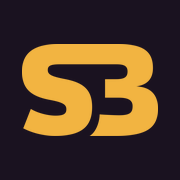
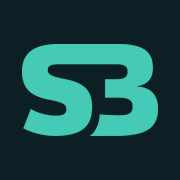
Switch colour scheme to dark teal with turquoise and apricot
Replace the aubergine, saffron and lilac palette, regenerate the
favicon, touch icon and social preview image to match, and give
the CSS colour tokens neutral names (--bg, --accent, ...).

Claude-Session: https://claude.ai/code/session_018yRe25Biixi9q7KoxBVGx6

Changed region(s): [[0.1111, 0.2222, 0.8889, 0.7778]]

diff --git a/src/styles/site.css b/src/styles/site.css
@@ -7,13 +7,13 @@
   src:url(/assets/archivo.woff2) format("woff2");
 }
 :root{
-  --aubergine:#1a1220;
-  --plum:#271b2f;
-  --line:#3d2e46;
-  --cream:#f2ece2;
-  --mauve:#b5a8bc;
-  --saffron:#f2b441;
-  --lilac:#a78bdc;
+  --bg:#0c1f24;
+  --surface:#12303a;
+  --line:#24464f;
+  --text:#f1eee4;
+  --muted:#a3b8b8;
+  --accent:#45cbb5;
+  --accent-2:#f2a66a;
   --gutter:clamp(20px,5vw,64px);
   --measure:34rem;
   --mark:url(/assets/sb-mark.png);
@@ -22,16 +22,16 @@
 html{scroll-behavior:smooth;-webkit-text-size-adjust:100%}
 body{
   margin:0;
-  background:var(--aubergine);
-  color:var(--cream);
+  background:var(--bg);
+  color:var(--text);
   font-family:"Archivo",system-ui,-apple-system,"Segoe UI",sans-serif;
   font-size:1.0625rem;
   line-height:1.6;
   -webkit-font-smoothing:antialiased;
 }
 a{color:inherit}
-:focus-visible{outline:2px solid var(--saffron);outline-offset:4px;border-radius:4px}
-::selection{background:var(--saffron);color:var(--aubergine)}
+:focus-visible{outline:2px solid var(--accent);outline-offset:4px;border-radius:4px}
+::selection{background:var(--accent);color:var(--bg)}
 .wrap{max-width:1240px;margin:0 auto;padding-inline:var(--gutter)}
 svg{display:block}
 
@@ -39,14 +39,14 @@ svg{display:block}
 .top{position:relative;z-index:2;display:flex;align-items:center;justify-content:space-between;gap:24px;padding-block:28px}
 .top .logo img{display:block;height:58px;width:auto}
 .top nav{display:flex;align-items:center;gap:clamp(16px,3vw,36px);font-size:.95rem}
-.top nav > a{text-decoration:none;color:var(--mauve)}
-.top nav > a:hover{color:var(--cream)}
-.lang{display:flex;border:1px solid var(--line);border-radius:999px;padding:3px;background:var(--aubergine)}
+.top nav > a{text-decoration:none;color:var(--muted)}
+.top nav > a:hover{color:var(--text)}
+.lang{display:flex;border:1px solid var(--line);border-radius:999px;padding:3px;background:var(--bg)}
 .lang a{text-decoration:none;display:block;
-  font:inherit;font-size:.82rem;font-weight:600;color:var(--mauve);
+  font:inherit;font-size:.82rem;font-weight:600;color:var(--muted);
   background:none;border:0;border-radius:999px;padding:5px 12px;cursor:pointer;
 }
-.lang a[aria-current="page"]{background:var(--cream);color:var(--aubergine)}
+.lang a[aria-current="page"]{background:var(--text);color:var(--bg)}
 
 /* Hero */
 .stage{position:relative;overflow:hidden}
@@ -54,7 +54,7 @@ svg{display:block}
   content:"";position:absolute;z-index:0;
   top:clamp(70px,9vw,120px);right:max(-140px,-9vw);
   width:min(74vw,1020px);aspect-ratio:1000/681;
-  background:var(--plum);
+  background:var(--surface);
   -webkit-mask:var(--mark) center/contain no-repeat;mask:var(--mark) center/contain no-repeat;
 }
 .hero{position:relative;z-index:1;padding-top:clamp(36px,8vh,96px);padding-bottom:clamp(56px,10vh,120px)}
@@ -66,25 +66,25 @@ h1{
   font-weight:800;letter-spacing:-0.035em;
 }
 h1 span{display:block}
-h1 .name{font-size:clamp(1.05rem,1.6vw,1.35rem);line-height:1.3;letter-spacing:0;font-weight:700;color:var(--saffron);margin-bottom:1em}
+h1 .name{font-size:clamp(1.05rem,1.6vw,1.35rem);line-height:1.3;letter-spacing:0;font-weight:700;color:var(--accent);margin-bottom:1em}
 .lead{max-width:var(--measure);font-size:clamp(1.1rem,1.6vw,1.3rem);line-height:1.5;margin:0 0 2rem}
 .actions{display:flex;flex-wrap:wrap;align-items:center;gap:14px 28px}
 .btn{
   display:inline-block;text-decoration:none;font-weight:700;
-  background:var(--saffron);color:var(--aubergine);
+  background:var(--accent);color:var(--bg);
   padding:14px 26px;border-radius:999px;
   transition:background .15s,color .15s;
 }
-.btn:hover{background:var(--cream)}
-.textlink{text-underline-offset:5px;text-decoration-thickness:1px;text-decoration-color:var(--mauve)}
-.textlink:hover{text-decoration-color:var(--saffron)}
+.btn:hover{background:var(--text)}
+.textlink{text-underline-offset:5px;text-decoration-thickness:1px;text-decoration-color:var(--muted)}
+.textlink:hover{text-decoration-color:var(--accent)}
 
 .figure{position:relative;width:clamp(250px,27vw,340px);margin:0 clamp(0px,2vw,28px) 0 0}
-.figure .shape-a{position:absolute;left:-17%;bottom:-9%;width:52%;aspect-ratio:1;border-radius:50%;background:var(--lilac)}
-.figure .shape-b{position:absolute;right:-12%;top:9%;width:38%;height:11%;border-radius:999px;background:var(--cream)}
+.figure .shape-a{position:absolute;left:-17%;bottom:-9%;width:52%;aspect-ratio:1;border-radius:50%;background:var(--accent-2)}
+.figure .shape-b{position:absolute;right:-12%;top:9%;width:38%;height:11%;border-radius:999px;background:var(--text)}
 .portrait{
   position:relative;aspect-ratio:400/512;
-  background:var(--saffron);
+  background:var(--accent);
   border-radius:44% 12px 44% 12px / 34% 12px 34% 12px;
   overflow:hidden;
 }
@@ -104,11 +104,11 @@ p{margin:0 0 1em}
 /* Arbeitsweise */
 .principles{list-style:none;margin:0;padding:0;display:grid;grid-template-columns:repeat(3,minmax(0,1fr));gap:clamp(24px,3vw,44px)}
 .principles svg{width:84px;height:84px;margin-bottom:22px}
-.principles p{margin:0;color:var(--mauve)}
+.principles p{margin:0;color:var(--muted)}
 #arbeit h2{margin-bottom:clamp(32px,6vh,60px)}
 
 /* KI */
-.ai{background:var(--plum);border:0 !important}
+.ai{background:var(--surface);border:0 !important}
 .ai + .section{border-top:0}
 .ai .intro{max-width:var(--measure);font-size:1.2rem;line-height:1.5;margin:0}
 .ai .principles{margin-top:clamp(36px,6vh,60px)}
@@ -119,30 +119,30 @@ p{margin:0 0 1em}
 .timeline li:last-child{padding-bottom:0}
 .timeline li::before{content:"";position:absolute;left:8px;top:10px;bottom:-10px;width:2px;background:var(--line)}
 .timeline li:last-child::before{display:none}
-.timeline li::after{content:"";position:absolute;left:0;top:5px;width:18px;height:18px;border-radius:50%;border:2px solid var(--mauve);background:var(--aubergine)}
-.timeline li:first-child::after{background:var(--saffron);border-color:var(--saffron)}
-.timeline p{margin:0;color:var(--mauve);max-width:var(--measure)}
-.when{display:block;font-size:.9rem;font-weight:600;color:var(--saffron);margin-bottom:2px}
+.timeline li::after{content:"";position:absolute;left:0;top:5px;width:18px;height:18px;border-radius:50%;border:2px solid var(--muted);background:var(--bg)}
+.timeline li:first-child::after{background:var(--accent);border-color:var(--accent)}
+.timeline p{margin:0;color:var(--muted);max-width:var(--measure)}
+.when{display:block;font-size:.9rem;font-weight:600;color:var(--accent);margin-bottom:2px}
 
 /* Mandate */
-.mandate{background:var(--saffron);color:var(--aubergine);border:0 !important;position:relative;overflow:hidden}
+.mandate{background:var(--accent);color:var(--bg);border:0 !important;position:relative;overflow:hidden}
 .mandate::after{
   content:"";position:absolute;right:-70px;bottom:-60px;width:min(46vw,520px);aspect-ratio:1000/681;
-  background:#e9a52c;
+  background:#38b8a3;
   -webkit-mask:var(--mark) center/contain no-repeat;mask:var(--mark) center/contain no-repeat;
 }
 .mandate .wrap{position:relative;z-index:1}
 .mandate .intro{max-width:var(--measure);font-size:1.25rem;line-height:1.45;font-weight:500;margin:0}
 .offers{list-style:none;margin:clamp(40px,7vh,72px) 0 0;padding:0;display:grid;grid-template-columns:repeat(3,minmax(0,1fr));gap:clamp(16px,2vw,28px)}
-.offers li{background:var(--aubergine);color:var(--cream);padding:28px 28px 32px;border-radius:44px 10px 44px 10px}
+.offers li{background:var(--bg);color:var(--text);padding:28px 28px 32px;border-radius:44px 10px 44px 10px}
 .offers svg{width:64px;height:64px;margin-bottom:20px}
-.offers p{color:var(--mauve);margin:0}
+.offers p{color:var(--muted);margin:0}
 .topics{margin:clamp(36px,6vh,64px) 0 0;display:flex;flex-wrap:wrap;align-items:center;gap:20px clamp(24px,4vw,56px)}
 .topics ul{list-style:none;margin:0;padding:0;display:flex;flex-wrap:wrap;gap:10px;flex:1 1 420px}
-.topics li{border:1.5px solid var(--aubergine);border-radius:999px;padding:6px 16px;font-size:.95rem;font-weight:500}
-.mandate .btn{background:var(--aubergine);color:var(--cream)}
-.mandate .btn:hover{background:var(--cream);color:var(--aubergine)}
-.mandate :focus-visible{outline-color:var(--aubergine)}
+.topics li{border:1.5px solid var(--bg);border-radius:999px;padding:6px 16px;font-size:.95rem;font-weight:500}
+.mandate .btn{background:var(--bg);color:var(--text)}
+.mandate .btn:hover{background:var(--text);color:var(--bg)}
+.mandate :focus-visible{outline-color:var(--bg)}
 
 /* Privat */
 .private p{max-width:var(--measure);margin:0;font-size:1.15rem}
@@ -150,10 +150,10 @@ p{margin:0 0 1em}
 .private .icons svg{width:56px;height:56px}
 
 /* Kontakt */
-.contact{position:relative;overflow:hidden;background:var(--plum);border:0 !important}
+.contact{position:relative;overflow:hidden;background:var(--surface);border:0 !important}
 .contact::before{
   content:"";position:absolute;right:-6%;top:50%;transform:translateY(-50%);width:min(60vw,760px);aspect-ratio:1000/681;
-  background:var(--aubergine);
+  background:var(--bg);
   -webkit-mask:var(--mark) center/contain no-repeat;mask:var(--mark) center/contain no-repeat;
 }
 .contact .wrap{position:relative}
@@ -161,11 +161,11 @@ p{margin:0 0 1em}
 .mail{
   display:inline-block;margin:.5em 0 .9em;
   font-size:clamp(1.4rem,3.6vw,2.9rem);font-weight:700;letter-spacing:-0.02em;
-  color:var(--saffron);text-decoration:none;border-bottom:2px solid transparent;
+  color:var(--accent);text-decoration:none;border-bottom:2px solid transparent;
 }
-.mail:hover{border-bottom-color:var(--saffron)}
+.mail:hover{border-bottom-color:var(--accent)}
 .links{display:flex;flex-wrap:wrap;gap:10px 28px;list-style:none;margin:0;padding:0}
-footer{padding-block:28px;display:flex;justify-content:space-between;align-items:center;gap:20px;color:var(--mauve);font-size:.9rem}
+footer{padding-block:28px;display:flex;justify-content:space-between;align-items:center;gap:20px;color:var(--muted);font-size:.9rem}
 
 /* Auftritt, einmalig */
 @media (prefers-reduced-motion:no-preference){

diff --git a/src/components/icons.ts b/src/components/icons.ts
@@ -1,27 +1,27 @@
 // Piktogramme als SVG-Inhalt, in der Reihenfolge der Einträge in den Sprachdateien.
-export const patternBand = "<rect width=\"1200\" height=\"100\" fill=\"#271b2f\"/>\n  <path d=\"M0 100A100 100 0 0 1 100 0V100Z\" fill=\"#f2b441\"/>\n  <circle cx=\"150\" cy=\"50\" r=\"30\" fill=\"#f2ece2\"/>\n  <path d=\"M200 100A50 50 0 0 1 300 100Z\" fill=\"#a78bdc\"/>\n  <rect x=\"310\" y=\"30\" width=\"80\" height=\"40\" rx=\"20\" fill=\"#f2b441\"/>\n  <rect x=\"400\" width=\"100\" height=\"100\" fill=\"#a78bdc\"/>\n  <circle cx=\"450\" cy=\"50\" r=\"30\" fill=\"#1a1220\"/>\n  <path d=\"M500 0H600A100 100 0 0 1 500 100Z\" fill=\"#f2ece2\"/>\n  <path d=\"M700 0A50 50 0 0 0 700 100Z\" fill=\"#f2b441\"/>\n  <circle cx=\"750\" cy=\"50\" r=\"14\" fill=\"#a78bdc\"/>\n  <rect x=\"800\" width=\"100\" height=\"100\" fill=\"#f2b441\"/>\n  <path d=\"M800 0A100 100 0 0 0 900 100H800Z\" fill=\"#1a1220\"/>\n  <rect x=\"930\" y=\"10\" width=\"40\" height=\"80\" rx=\"20\" fill=\"#f2ece2\"/>\n  <path d=\"M1000 0H1100A100 100 0 0 1 1000 100Z\" fill=\"#a78bdc\"/>\n  <circle cx=\"1150\" cy=\"50\" r=\"30\" fill=\"none\" stroke=\"#f2b441\" stroke-width=\"14\"/>";
+export const patternBand = "<rect width=\"1200\" height=\"100\" fill=\"#12303a\"/>\n  <path d=\"M0 100A100 100 0 0 1 100 0V100Z\" fill=\"#45cbb5\"/>\n  <circle cx=\"150\" cy=\"50\" r=\"30\" fill=\"#f1eee4\"/>\n  <path d=\"M200 100A50 50 0 0 1 300 100Z\" fill=\"#f2a66a\"/>\n  <rect x=\"310\" y=\"30\" width=\"80\" height=\"40\" rx=\"20\" fill=\"#45cbb5\"/>\n  <rect x=\"400\" width=\"100\" height=\"100\" fill=\"#f2a66a\"/>\n  <circle cx=\"450\" cy=\"50\" r=\"30\" fill=\"#0c1f24\"/>\n  <path d=\"M500 0H600A100 100 0 0 1 500 100Z\" fill=\"#f1eee4\"/>\n  <path d=\"M700 0A50 50 0 0 0 700 100Z\" fill=\"#45cbb5\"/>\n  <circle cx=\"750\" cy=\"50\" r=\"14\" fill=\"#f2a66a\"/>\n  <rect x=\"800\" width=\"100\" height=\"100\" fill=\"#45cbb5\"/>\n  <path d=\"M800 0A100 100 0 0 0 900 100H800Z\" fill=\"#0c1f24\"/>\n  <rect x=\"930\" y=\"10\" width=\"40\" height=\"80\" rx=\"20\" fill=\"#f1eee4\"/>\n  <path d=\"M1000 0H1100A100 100 0 0 1 1000 100Z\" fill=\"#f2a66a\"/>\n  <circle cx=\"1150\" cy=\"50\" r=\"30\" fill=\"none\" stroke=\"#45cbb5\" stroke-width=\"14\"/>";
 
 export const approachIcons = [
-  "<circle cx=\"42\" cy=\"42\" r=\"42\" fill=\"#f2b441\"/><circle cx=\"42\" cy=\"42\" r=\"26\" fill=\"#1a1220\"/><circle cx=\"42\" cy=\"42\" r=\"11\" fill=\"#f2ece2\"/>",
-  "<circle cx=\"50\" cy=\"34\" r=\"30\" fill=\"none\" stroke=\"#a78bdc\" stroke-width=\"8\"/><circle cx=\"16\" cy=\"68\" r=\"16\" fill=\"#f2b441\"/>",
-  "<circle cx=\"28\" cy=\"42\" r=\"28\" fill=\"#f2b441\"/><circle cx=\"56\" cy=\"42\" r=\"28\" fill=\"#a78bdc\"/><path d=\"M42 17.75A28 28 0 0 1 42 66.25A28 28 0 0 1 42 17.75Z\" fill=\"#f2ece2\"/>"
+  "<circle cx=\"42\" cy=\"42\" r=\"42\" fill=\"#45cbb5\"/><circle cx=\"42\" cy=\"42\" r=\"26\" fill=\"#0c1f24\"/><circle cx=\"42\" cy=\"42\" r=\"11\" fill=\"#f1eee4\"/>",
+  "<circle cx=\"50\" cy=\"34\" r=\"30\" fill=\"none\" stroke=\"#f2a66a\" stroke-width=\"8\"/><circle cx=\"16\" cy=\"68\" r=\"16\" fill=\"#45cbb5\"/>",
+  "<circle cx=\"28\" cy=\"42\" r=\"28\" fill=\"#45cbb5\"/><circle cx=\"56\" cy=\"42\" r=\"28\" fill=\"#f2a66a\"/><path d=\"M42 17.75A28 28 0 0 1 42 66.25A28 28 0 0 1 42 17.75Z\" fill=\"#f1eee4\"/>"
 ];
 
 export const aiIcons = [
-  "<rect x=\"6\" y=\"6\" width=\"72\" height=\"72\" rx=\"20\" fill=\"none\" stroke=\"#a78bdc\" stroke-width=\"8\"/><circle cx=\"42\" cy=\"42\" r=\"13\" fill=\"#f2b441\"/>",
-  "<path d=\"M42 4C46 28 56 38 80 42C56 46 46 56 42 80C38 56 28 46 4 42C28 38 38 28 42 4Z\" fill=\"#f2b441\"/><circle cx=\"71\" cy=\"13\" r=\"7\" fill=\"#f2ece2\"/>",
-  "<rect x=\"2\" y=\"12\" width=\"80\" height=\"60\" rx=\"16\" fill=\"#f2ece2\"/><path d=\"M20 31L32 42L20 53\" fill=\"none\" stroke=\"#1a1220\" stroke-width=\"7\" stroke-linecap=\"round\" stroke-linejoin=\"round\"/><path d=\"M42 54H62\" stroke=\"#a78bdc\" stroke-width=\"7\" stroke-linecap=\"round\"/>"
+  "<rect x=\"6\" y=\"6\" width=\"72\" height=\"72\" rx=\"20\" fill=\"none\" stroke=\"#f2a66a\" stroke-width=\"8\"/><circle cx=\"42\" cy=\"42\" r=\"13\" fill=\"#45cbb5\"/>",
+  "<path d=\"M42 4C46 28 56 38 80 42C56 46 46 56 42 80C38 56 28 46 4 42C28 38 38 28 42 4Z\" fill=\"#45cbb5\"/><circle cx=\"71\" cy=\"13\" r=\"7\" fill=\"#f1eee4\"/>",
+  "<rect x=\"2\" y=\"12\" width=\"80\" height=\"60\" rx=\"16\" fill=\"#f1eee4\"/><path d=\"M20 31L32 42L20 53\" fill=\"none\" stroke=\"#0c1f24\" stroke-width=\"7\" stroke-linecap=\"round\" stroke-linejoin=\"round\"/><path d=\"M42 54H62\" stroke=\"#f2a66a\" stroke-width=\"7\" stroke-linecap=\"round\"/>"
 ];
 
 export const mandatesIcons = [
-  "<circle cx=\"12\" cy=\"14\" r=\"9\" fill=\"#f2ece2\"/><circle cx=\"32\" cy=\"14\" r=\"9\" fill=\"#f2b441\"/><circle cx=\"52\" cy=\"14\" r=\"9\" fill=\"#f2ece2\"/><rect x=\"2\" y=\"32\" width=\"60\" height=\"26\" rx=\"13\" fill=\"#a78bdc\"/>",
-  "<path d=\"M28 4A28 28 0 0 0 28 60Z\" fill=\"#f2b441\"/><path d=\"M36 4A28 28 0 0 1 36 60Z\" fill=\"#a78bdc\"/>",
-  "<rect x=\"4\" y=\"4\" width=\"40\" height=\"40\" rx=\"12\" fill=\"none\" stroke=\"#f2ece2\" stroke-width=\"6\"/><rect x=\"22\" y=\"22\" width=\"40\" height=\"40\" rx=\"12\" fill=\"#f2b441\"/>"
+  "<circle cx=\"12\" cy=\"14\" r=\"9\" fill=\"#f1eee4\"/><circle cx=\"32\" cy=\"14\" r=\"9\" fill=\"#45cbb5\"/><circle cx=\"52\" cy=\"14\" r=\"9\" fill=\"#f1eee4\"/><rect x=\"2\" y=\"32\" width=\"60\" height=\"26\" rx=\"13\" fill=\"#f2a66a\"/>",
+  "<path d=\"M28 4A28 28 0 0 0 28 60Z\" fill=\"#45cbb5\"/><path d=\"M36 4A28 28 0 0 1 36 60Z\" fill=\"#f2a66a\"/>",
+  "<rect x=\"4\" y=\"4\" width=\"40\" height=\"40\" rx=\"12\" fill=\"none\" stroke=\"#f1eee4\" stroke-width=\"6\"/><rect x=\"22\" y=\"22\" width=\"40\" height=\"40\" rx=\"12\" fill=\"#45cbb5\"/>"
 ];
 
 export const privateIcons = [
-  "<circle cx=\"22\" cy=\"30\" r=\"20\" fill=\"#f2b441\"/><circle cx=\"22\" cy=\"30\" r=\"11\" fill=\"#1a1220\"/><rect x=\"38\" y=\"26\" width=\"18\" height=\"8\" rx=\"4\" fill=\"#f2ece2\"/>",
-  "<circle cx=\"13\" cy=\"36\" r=\"10\" fill=\"none\" stroke=\"#a78bdc\" stroke-width=\"5\"/><circle cx=\"43\" cy=\"36\" r=\"10\" fill=\"none\" stroke=\"#a78bdc\" stroke-width=\"5\"/><path d=\"M13 36L24 18H36L43 36M24 18L30 36H13\" fill=\"none\" stroke=\"#f2ece2\" stroke-width=\"4\" stroke-linejoin=\"round\" stroke-linecap=\"round\"/>",
-  "<rect x=\"2\" y=\"14\" width=\"52\" height=\"34\" rx=\"10\" fill=\"#f2ece2\"/><rect x=\"14\" y=\"7\" width=\"16\" height=\"10\" rx=\"4\" fill=\"#f2ece2\"/><circle cx=\"28\" cy=\"31\" r=\"11\" fill=\"#1a1220\"/><circle cx=\"28\" cy=\"31\" r=\"5\" fill=\"#f2b441\"/>"
+  "<circle cx=\"22\" cy=\"30\" r=\"20\" fill=\"#45cbb5\"/><circle cx=\"22\" cy=\"30\" r=\"11\" fill=\"#0c1f24\"/><rect x=\"38\" y=\"26\" width=\"18\" height=\"8\" rx=\"4\" fill=\"#f1eee4\"/>",
+  "<circle cx=\"13\" cy=\"36\" r=\"10\" fill=\"none\" stroke=\"#f2a66a\" stroke-width=\"5\"/><circle cx=\"43\" cy=\"36\" r=\"10\" fill=\"none\" stroke=\"#f2a66a\" stroke-width=\"5\"/><path d=\"M13 36L24 18H36L43 36M24 18L30 36H13\" fill=\"none\" stroke=\"#f1eee4\" stroke-width=\"4\" stroke-linejoin=\"round\" stroke-linecap=\"round\"/>",
+  "<rect x=\"2\" y=\"14\" width=\"52\" height=\"34\" rx=\"10\" fill=\"#f1eee4\"/><rect x=\"14\" y=\"7\" width=\"16\" height=\"10\" rx=\"4\" fill=\"#f1eee4\"/><circle cx=\"28\" cy=\"31\" r=\"11\" fill=\"#0c1f24\"/><circle cx=\"28\" cy=\"31\" r=\"5\" fill=\"#45cbb5\"/>"
 ];
 
